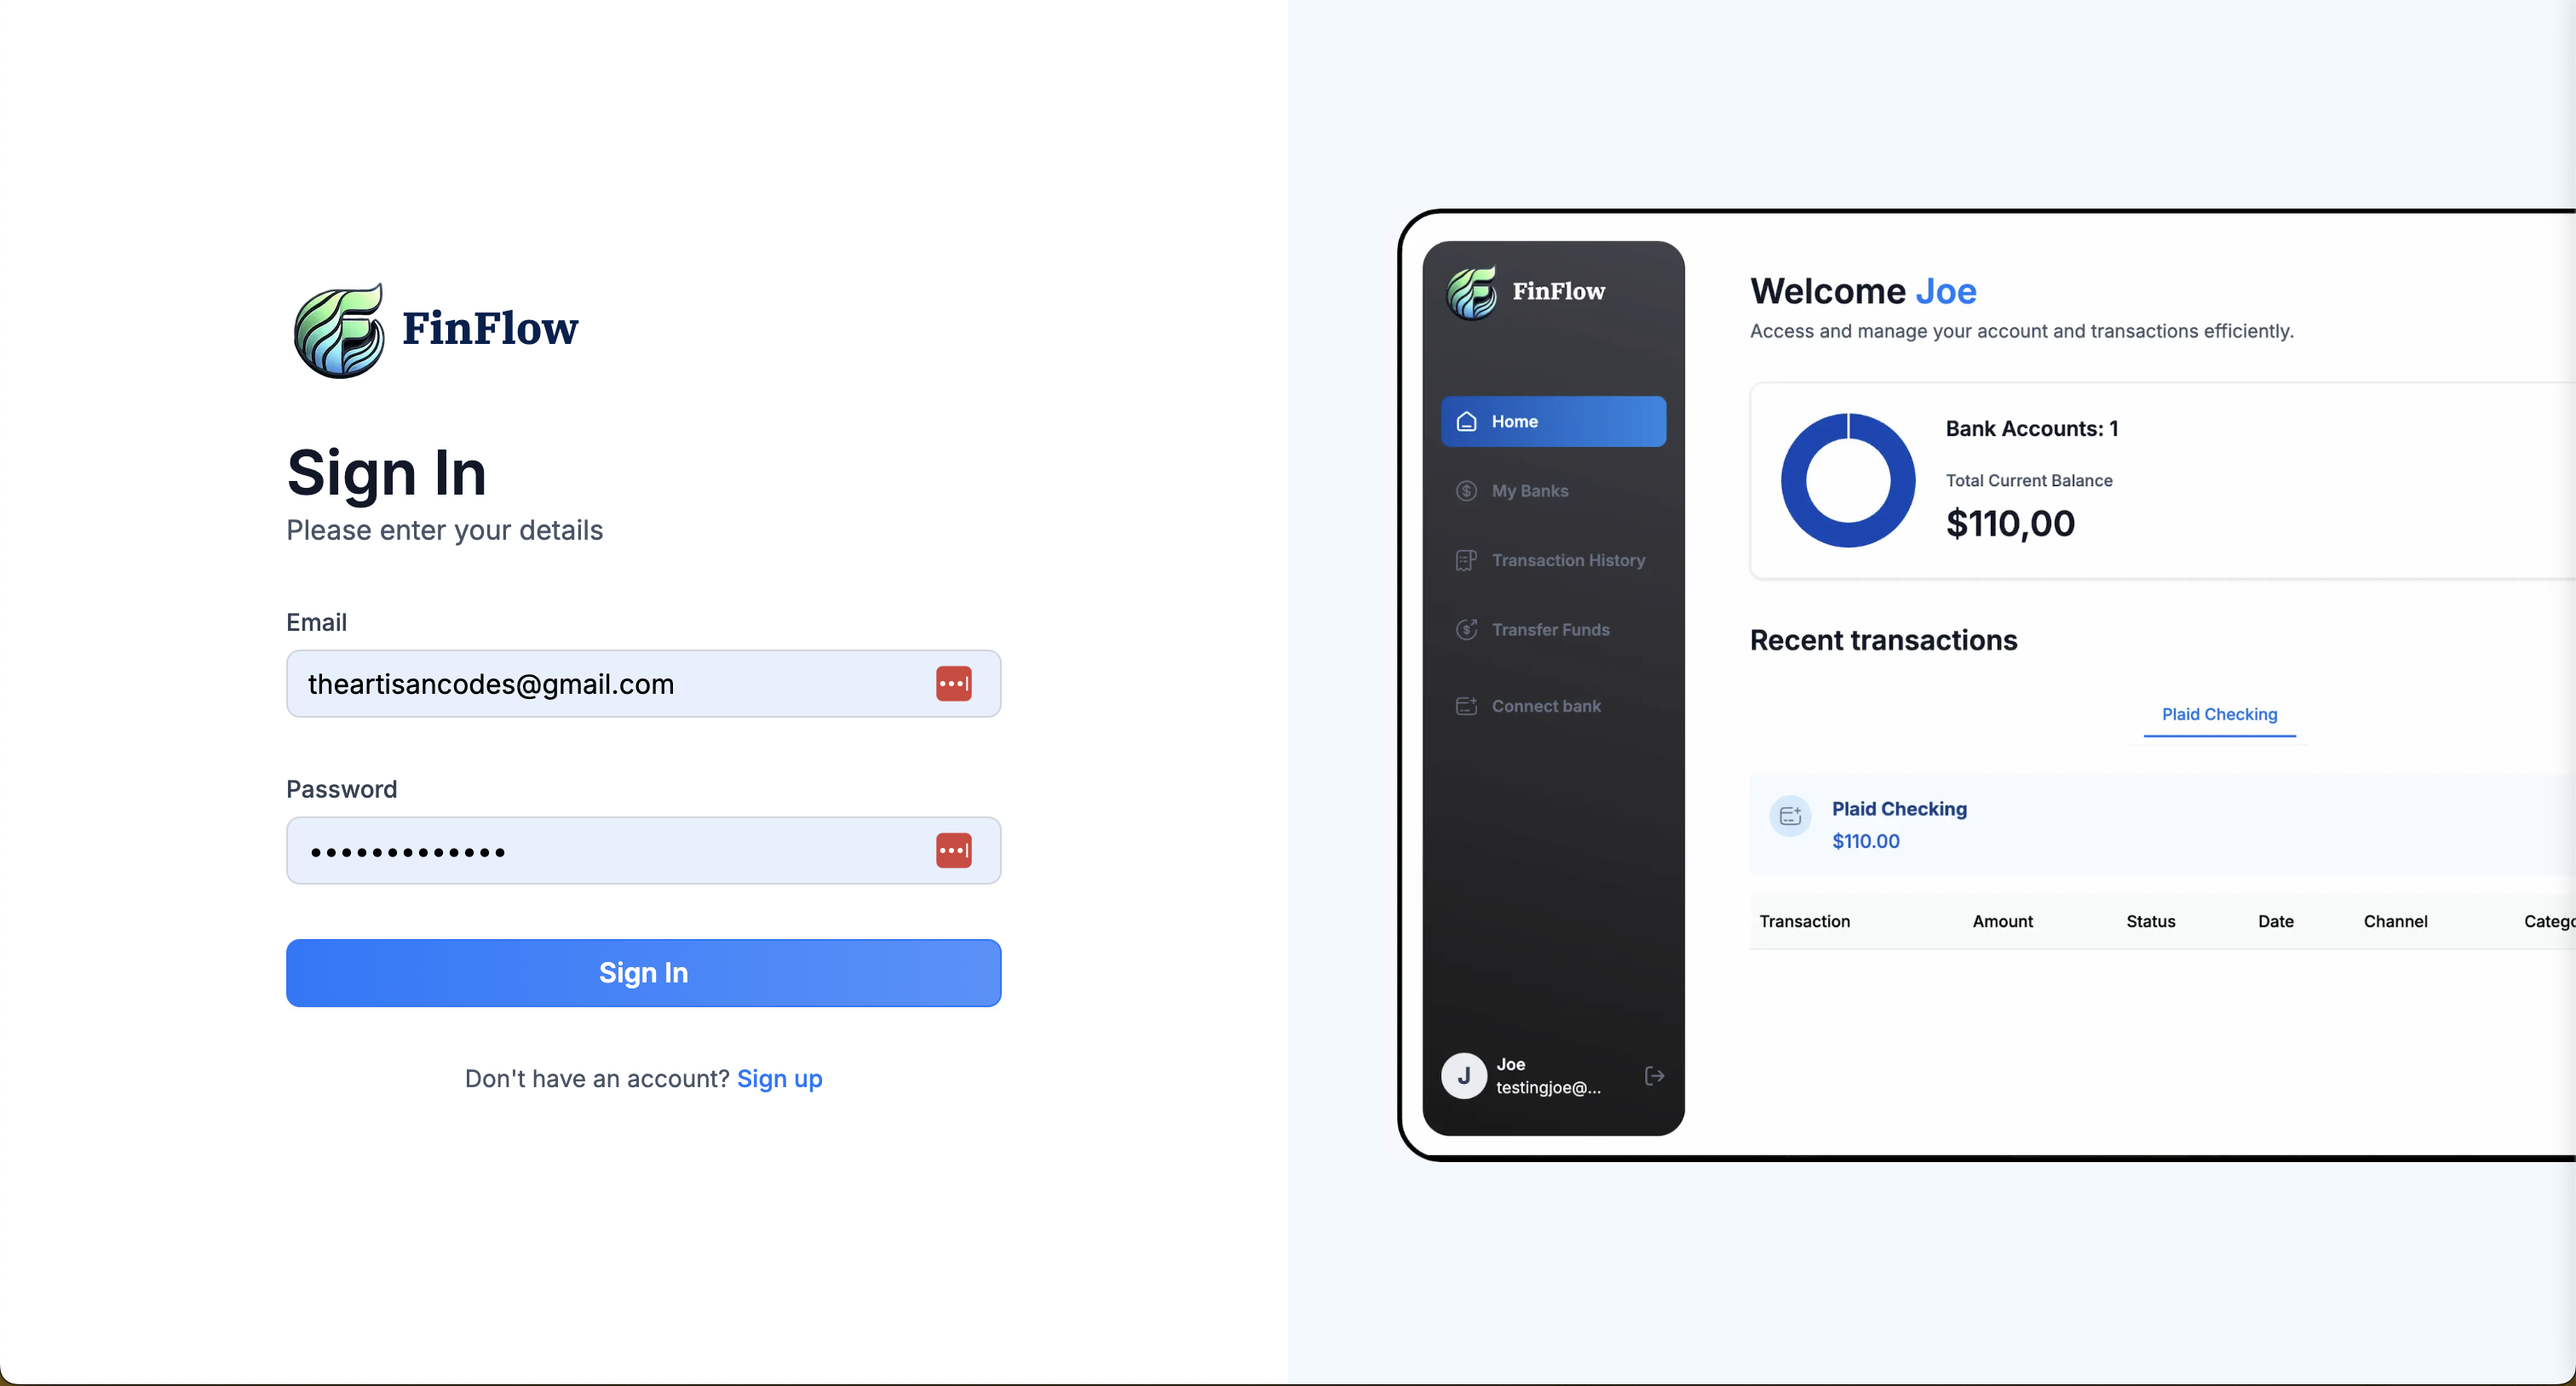
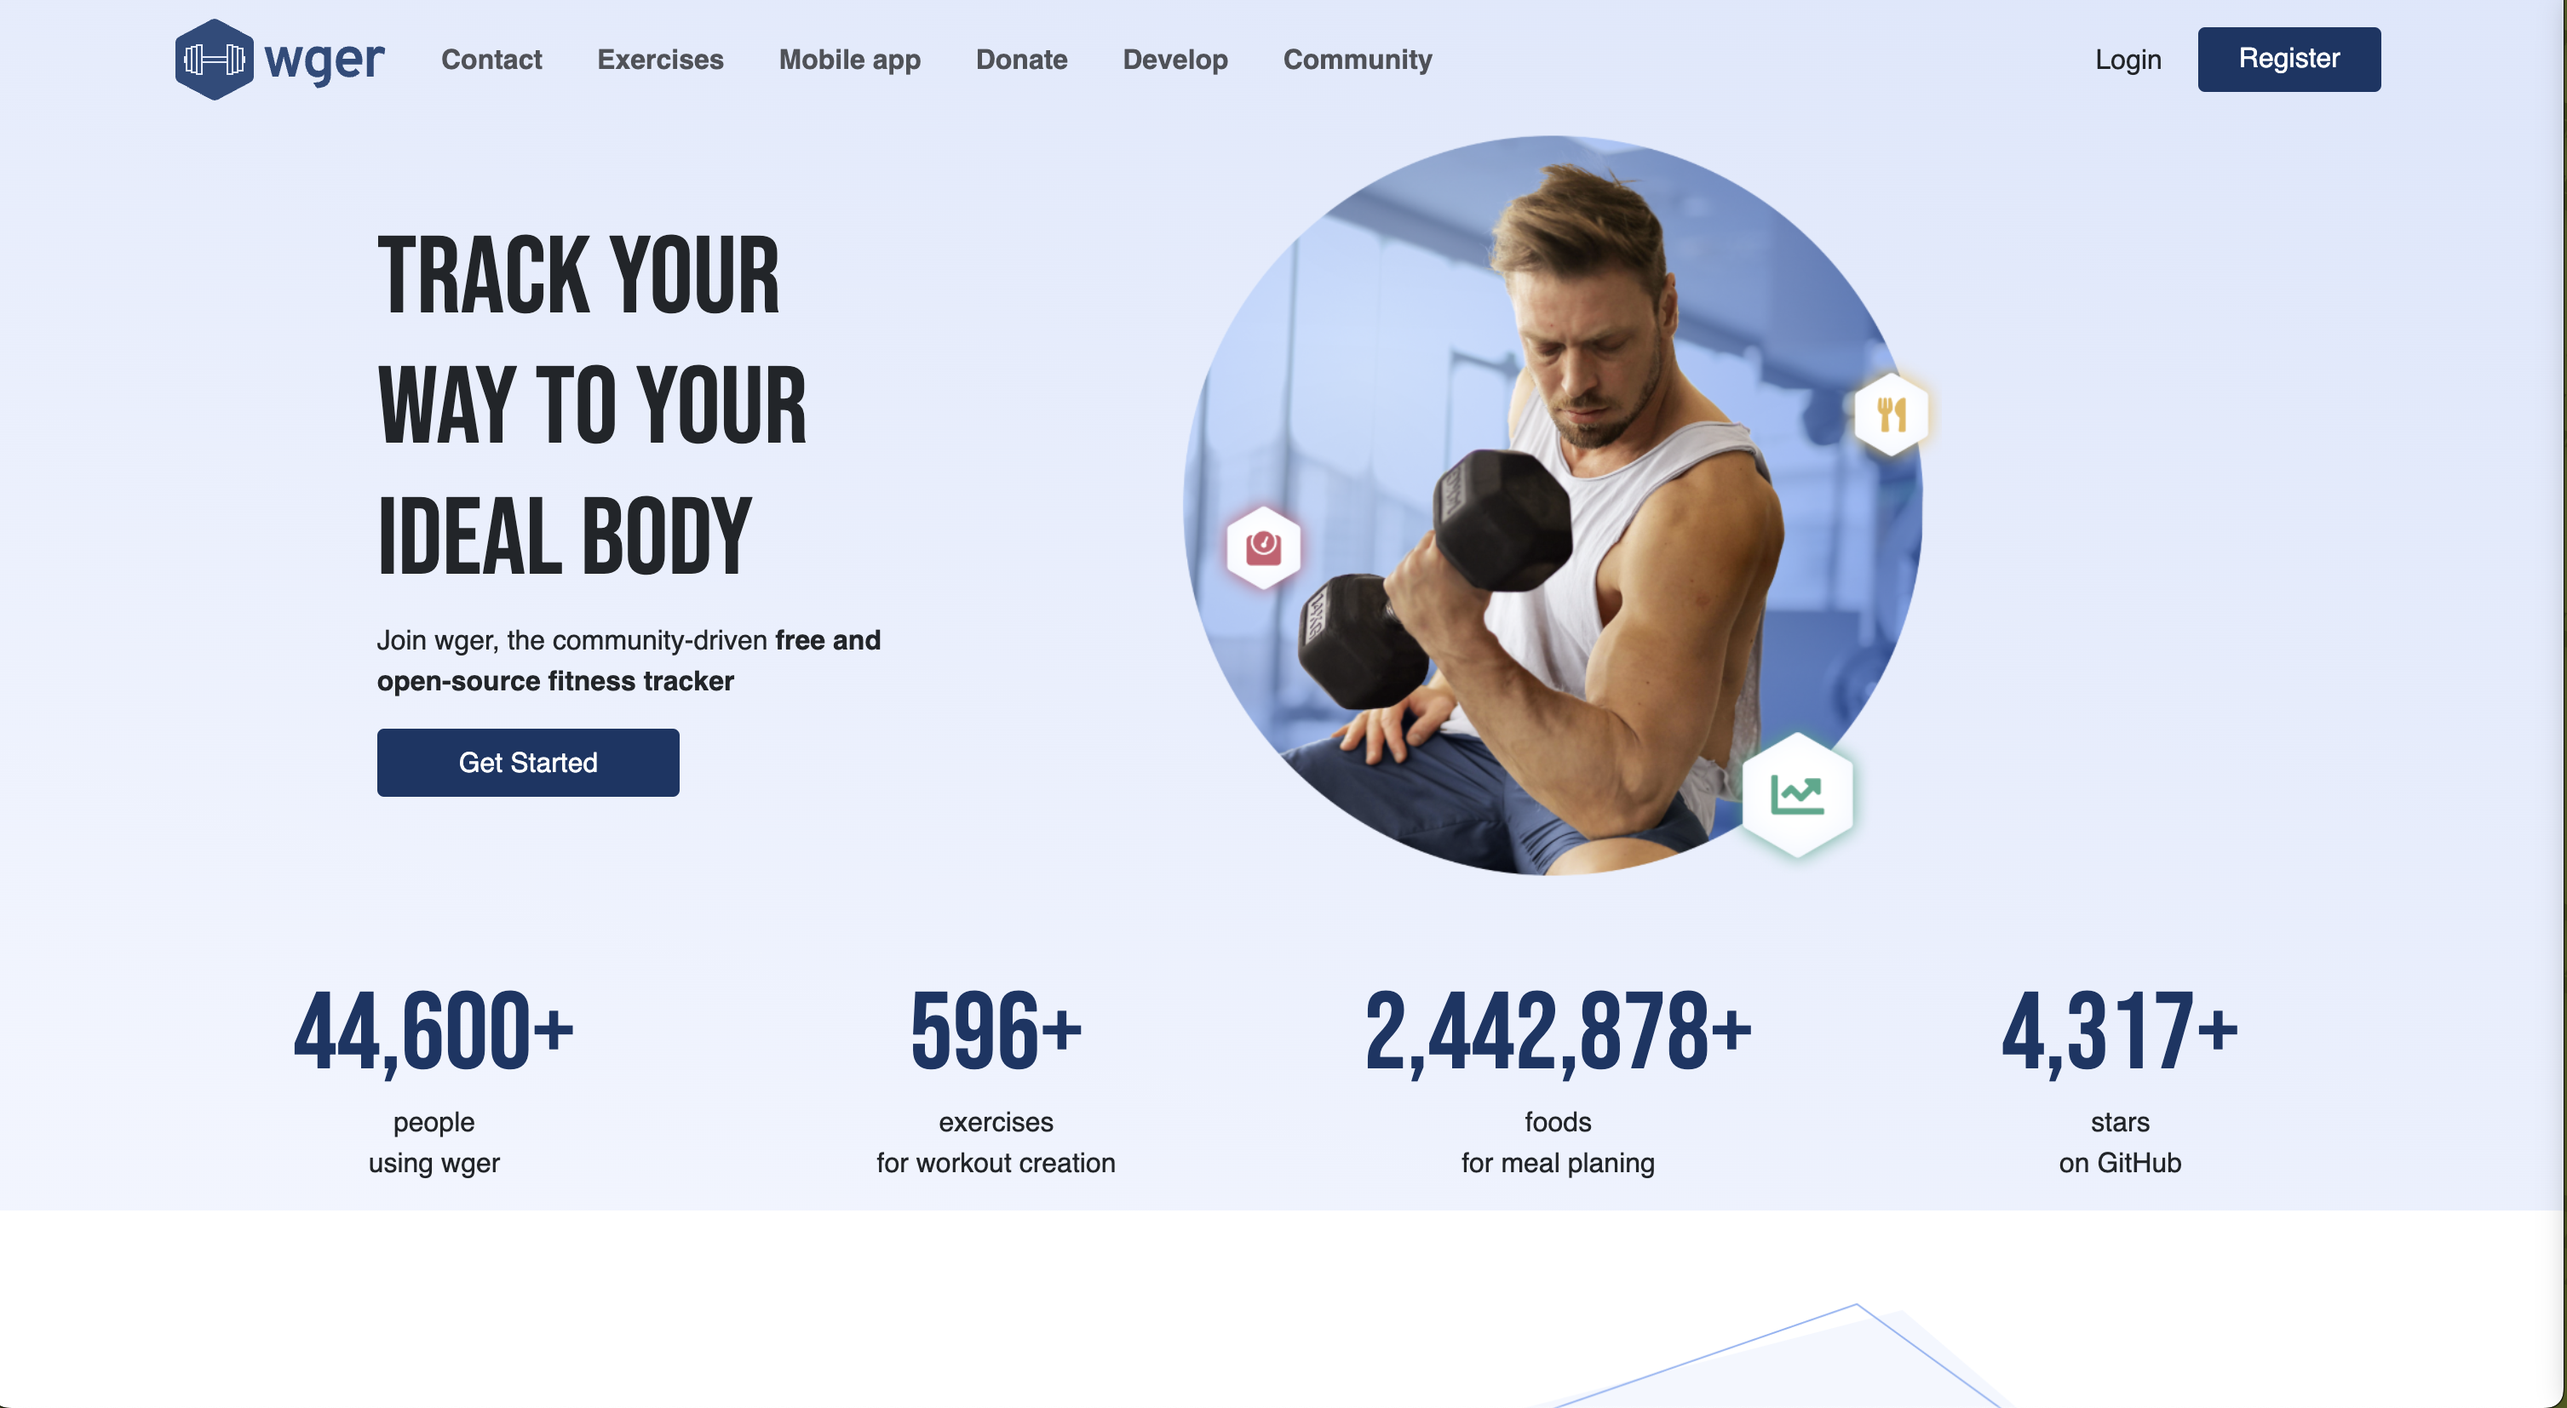
update projects details

diff --git a/assets/index.tsx b/assets/index.tsx
@@ -306,22 +306,22 @@ export const projectsData = [
     tech: ['NextJS', 'TailwindCSS', 'Appwrite']
   },
   {
-    name: 'WIP - podcastai.craftedbyjoe.com',
-    desc: "This is an podcast using Google's NotebookLM to generate audio from text for a podcast",
-    url: '/projects/image-10.jpg',
-    tech: ['NextJS', 'AI', 'TailwindCSS']
+    name: 'podcast.craftedbyjoe.com',
+    desc: "This is an podcast using OpenAI's TTS model to generate audio from text for a podcast",
+    url: '/projects/image-3.png',
+    tech: ['NextJS', 'OpenAI', 'TailwindCSS']
+  },
+  {
+    name: 'WIP - burnzone.craftedbyjoe.com',
+    desc: 'BurnZone is a fitness app that helps users track their workouts, set fitness goals, and monitor their progress.',
+    url: '/projects/image-4.png',
+    tech: ['NextJS', 'FramerMotion', 'Python', 'TailwindCSS']
   },
   {
     name: 'WIP - zerobudget.craftedbyjoe.com',
     desc: 'A resource for budgeting and financial planning, offering tools and advice for managing money effectively.',
     url: '/projects/image-5.png',
     tech: ['NextJS', 'NodeJS', 'GraphQL', 'TailwindCSS']
-  },
-  {
-    name: 'WIP - wellnesshub.craftedbyjoe.com',
-    desc: ' A wellness website focused on holistic health, offering articles on nutrition, fitness, mental health, and alternative therapies.',
-    url: '/projects/image-8.jpg',
-    tech: ['NextJS', 'ReactJS', 'FramerMotion']
   }
 ];
 
@@ -334,7 +334,8 @@ export const projectsButton = [
   'FramerMotion',
   'ThreeJS',
   'NodeJS',
-  'GraphQL'
+  'GraphQL',
+  ' Python'
 ];
 
 // Pricing Plans
